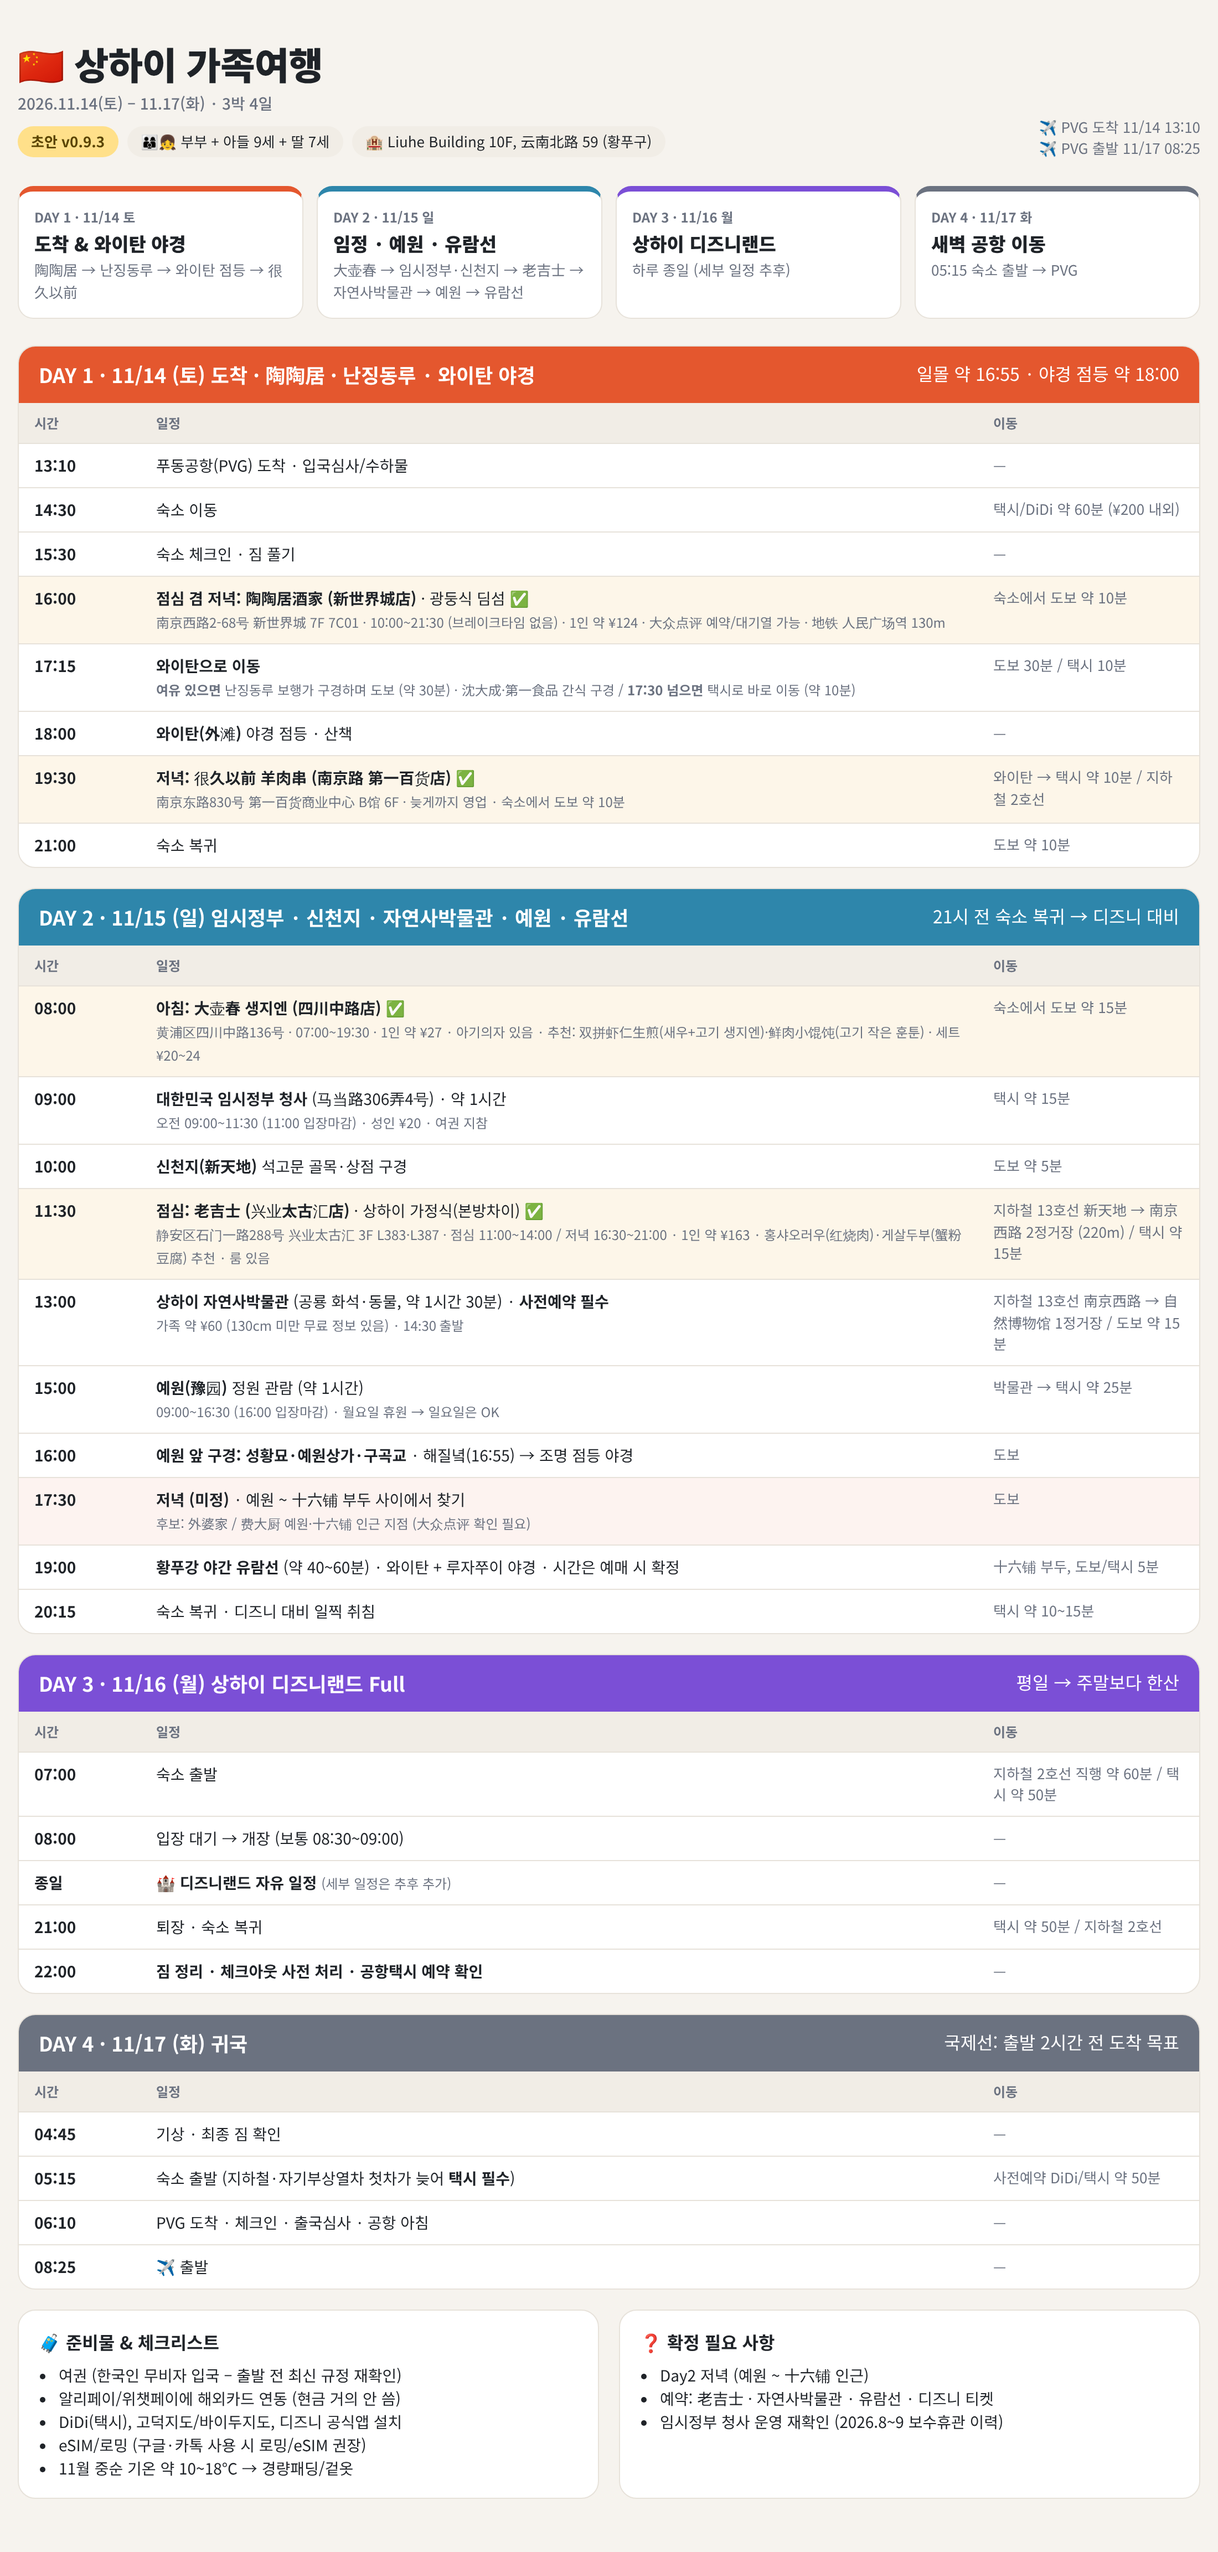
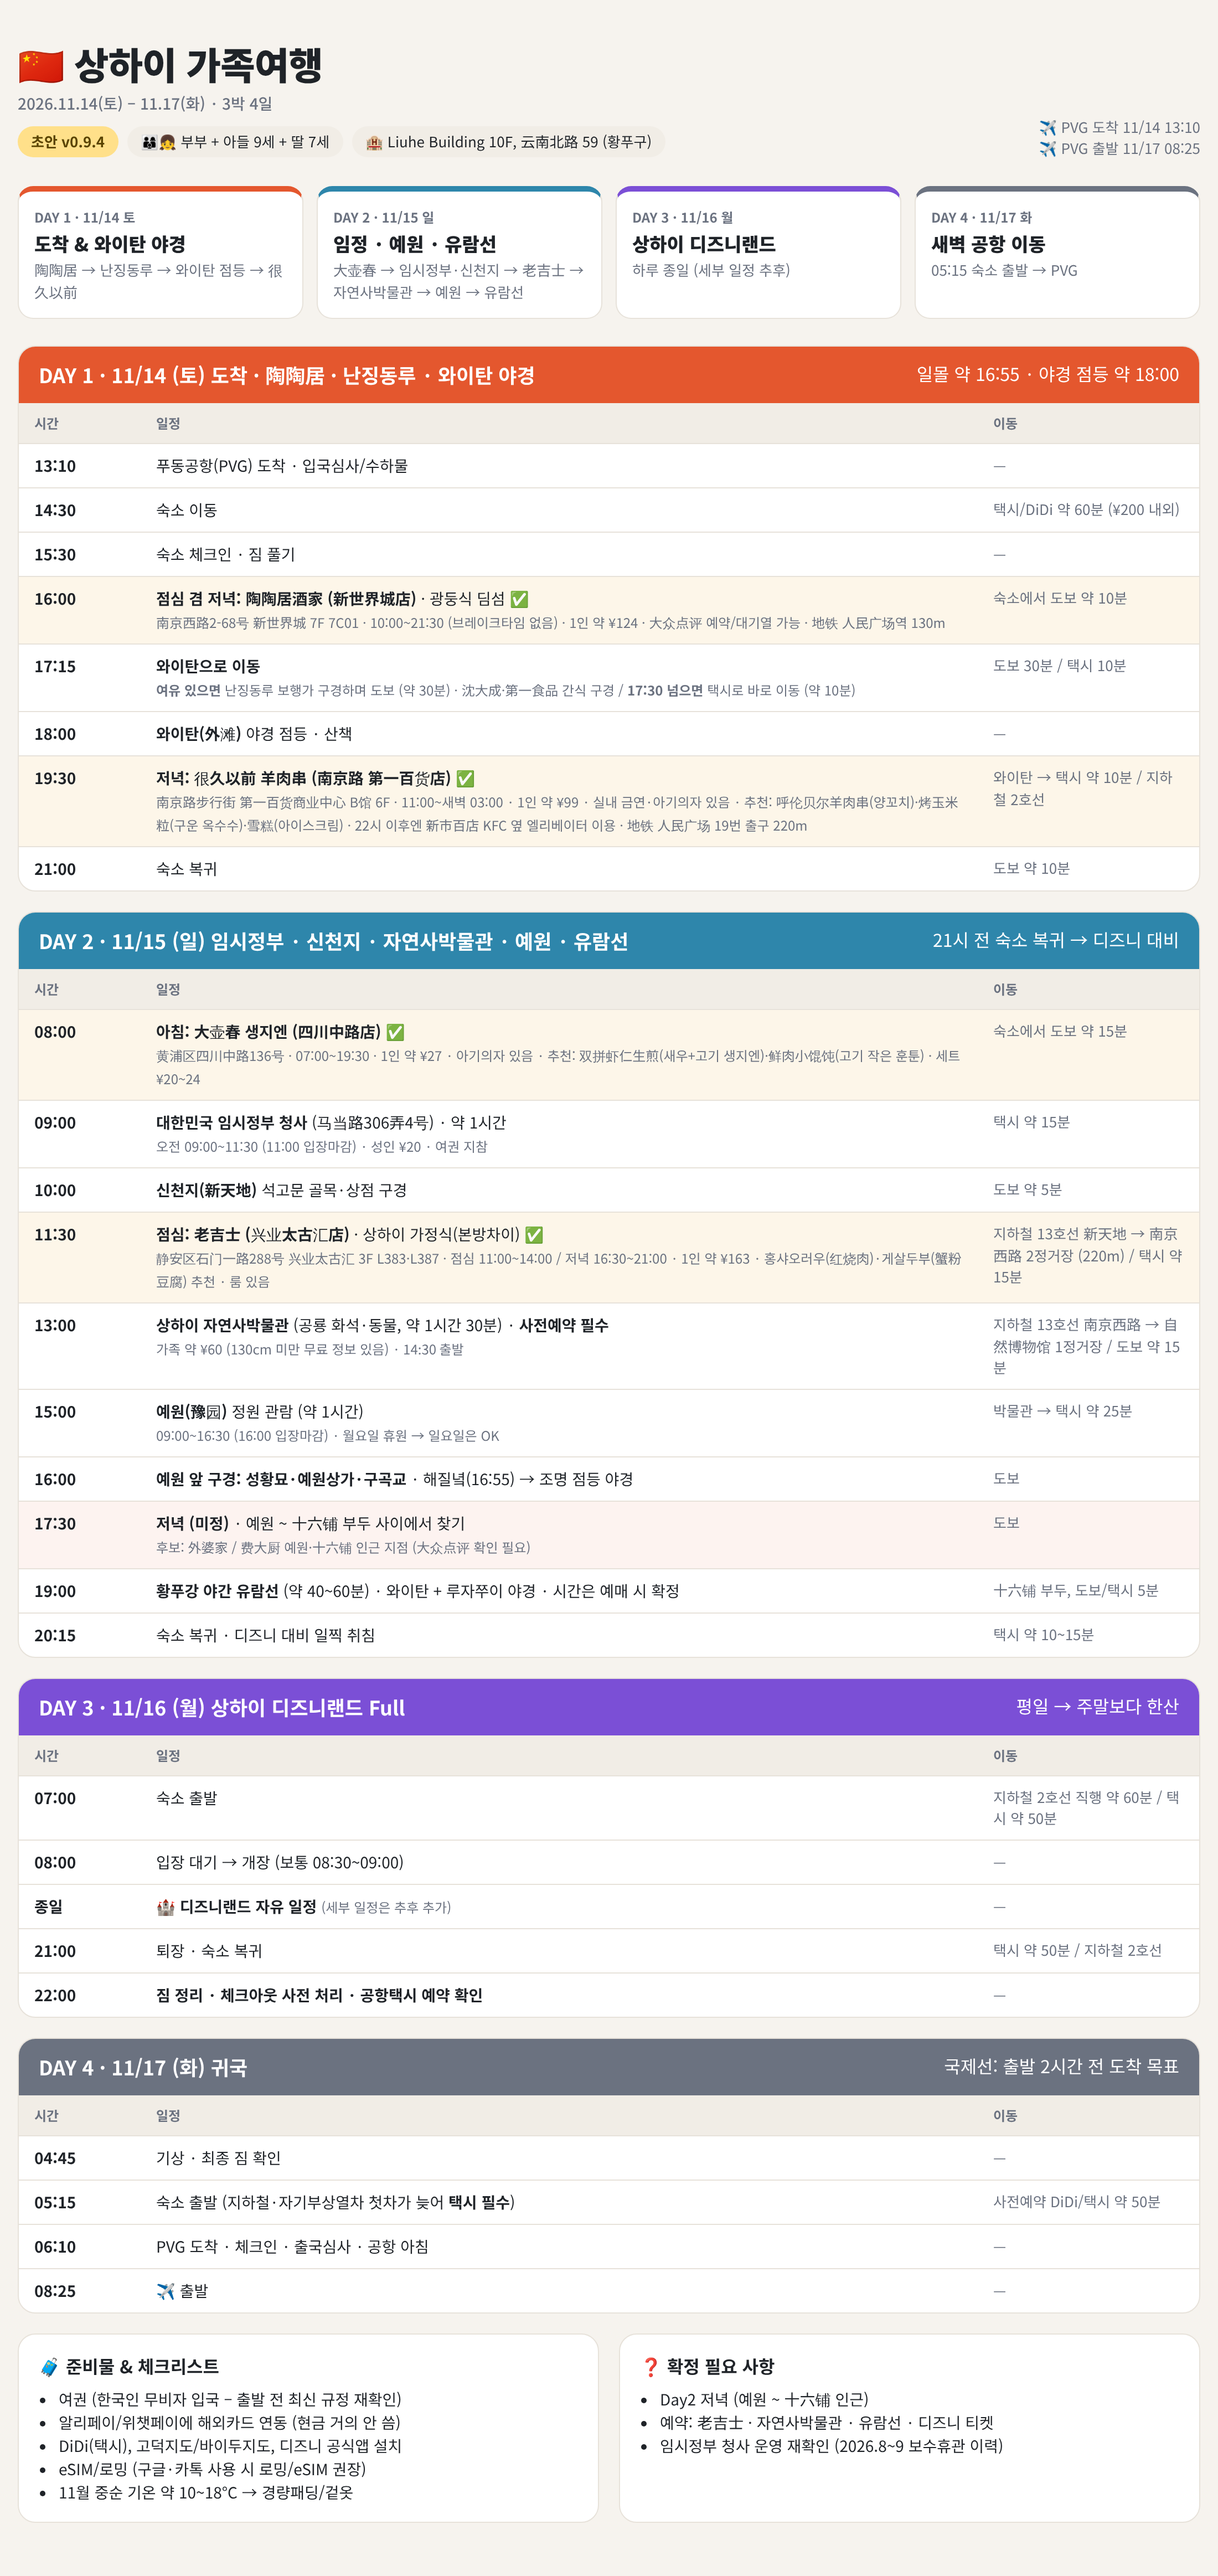
Update Hen Jiu Yi Qian details
Claude-Session: https://claude.ai/code/session_01FtyK4HJW4ZkDiHshS9yHtF

diff --git a/index.html b/index.html
@@ -69,7 +69,7 @@
     <div>
       <h1>🇨🇳 상하이 가족여행 <small>2026.11.14(토) – 11.17(화) · 3박 4일</small></h1>
       <div style="margin-top:8px">
-        <span class="badge draft">초안 v0.9.3</span>
+        <span class="badge draft">초안 v0.9.4</span>
         <span class="badge">👨👩👦👧 부부 + 아들 9세 + 딸 7세</span>
         <span class="badge">🏨 Liuhe Building 10F, 云南北路 59 (황푸구)</span>
       </div>
@@ -96,7 +96,7 @@
       <tr class="food"><td class="time">16:00</td><td><b>점심 겸 저녁: 陶陶居酒家 (新世界城店)</b> · 광둥식 딤섬 ✅<br><span class="sub">南京西路2-68号 新世界城 7F 7C01 · 10:00~21:30 (브레이크타임 없음) · 1인 약 ¥124 · 大众点评 예약/대기열 가능 · 地铁 人民广场역 130m</span></td><td class="move">숙소에서 도보 약 10분</td></tr>
       <tr><td class="time">17:15</td><td><b>와이탄으로 이동</b><br><span class="sub"><b>여유 있으면</b> 난징동루 보행가 구경하며 도보 (약 30분) · 沈大成·第一食品 간식 구경 / <b>17:30 넘으면</b> 택시로 바로 이동 (약 10분)</span></td><td class="move">도보 30분 / 택시 10분</td></tr>
       <tr><td class="time">18:00</td><td><b>와이탄(外滩)</b> 야경 점등 · 산책</td><td class="move">—</td></tr>
-      <tr class="food"><td class="time">19:30</td><td><b>저녁: 很久以前 羊肉串 (南京路 第一百货店)</b> ✅<br><span class="sub">南京东路830号 第一百货商业中心 B馆 6F · 늦게까지 영업 · 숙소에서 도보 약 10분</span></td><td class="move">와이탄 → 택시 약 10분 / 지하철 2호선</td></tr>
+      <tr class="food"><td class="time">19:30</td><td><b>저녁: 很久以前 羊肉串 (南京路 第一百货店)</b> ✅<br><span class="sub">南京路步行街 第一百货商业中心 B馆 6F · 11:00~새벽 03:00 · 1인 약 ¥99 · 실내 금연·아기의자 있음 · 추천: 呼伦贝尔羊肉串(양꼬치)·烤玉米粒(구운 옥수수)·雪糕(아이스크림) · 22시 이후엔 新市百店 KFC 옆 엘리베이터 이용 · 地铁 人民广场 19번 출구 220m</span></td><td class="move">와이탄 → 택시 약 10분 / 지하철 2호선</td></tr>
       <tr><td class="time">21:00</td><td>숙소 복귀</td><td class="move">도보 약 10분</td></tr>
     </table>
   </div>

diff --git a/README.md b/README.md
@@ -1,4 +1,4 @@
-# 상하이 가족여행 (2026.11.14 ~ 11.17, 3박 4일) — 초안 v0.9.3
+# 상하이 가족여행 (2026.11.14 ~ 11.17, 3박 4일) — 초안 v0.9.4
 
 - 인원: 부부 + 아들 9세 + 딸 7세
 - 숙소: Liuhe Building 10F, 59 Yunnan North Rd, 황푸구
